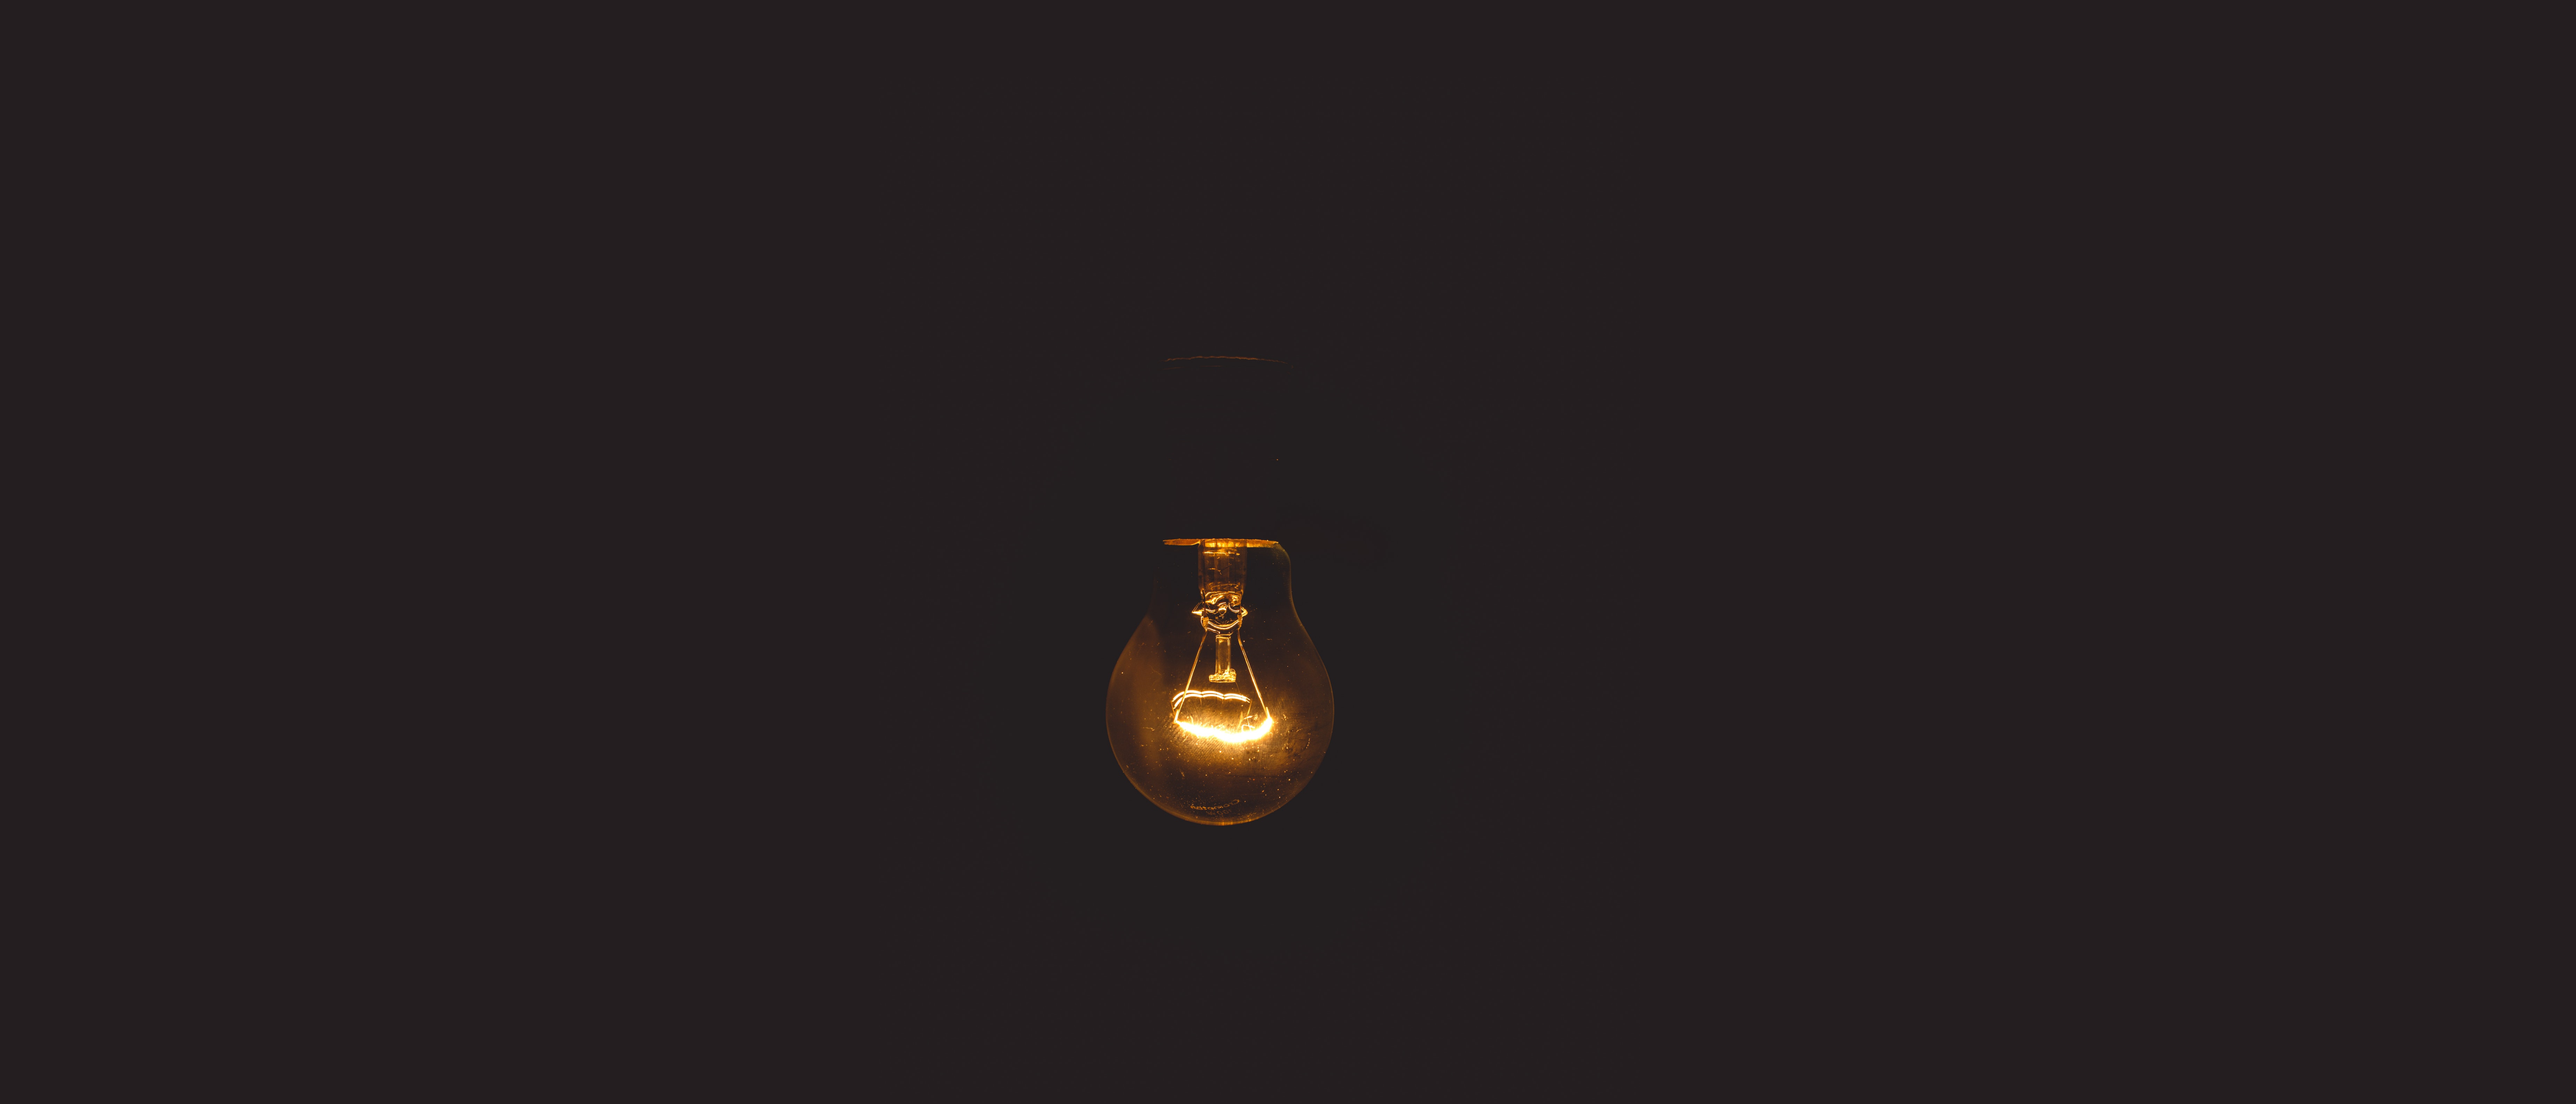
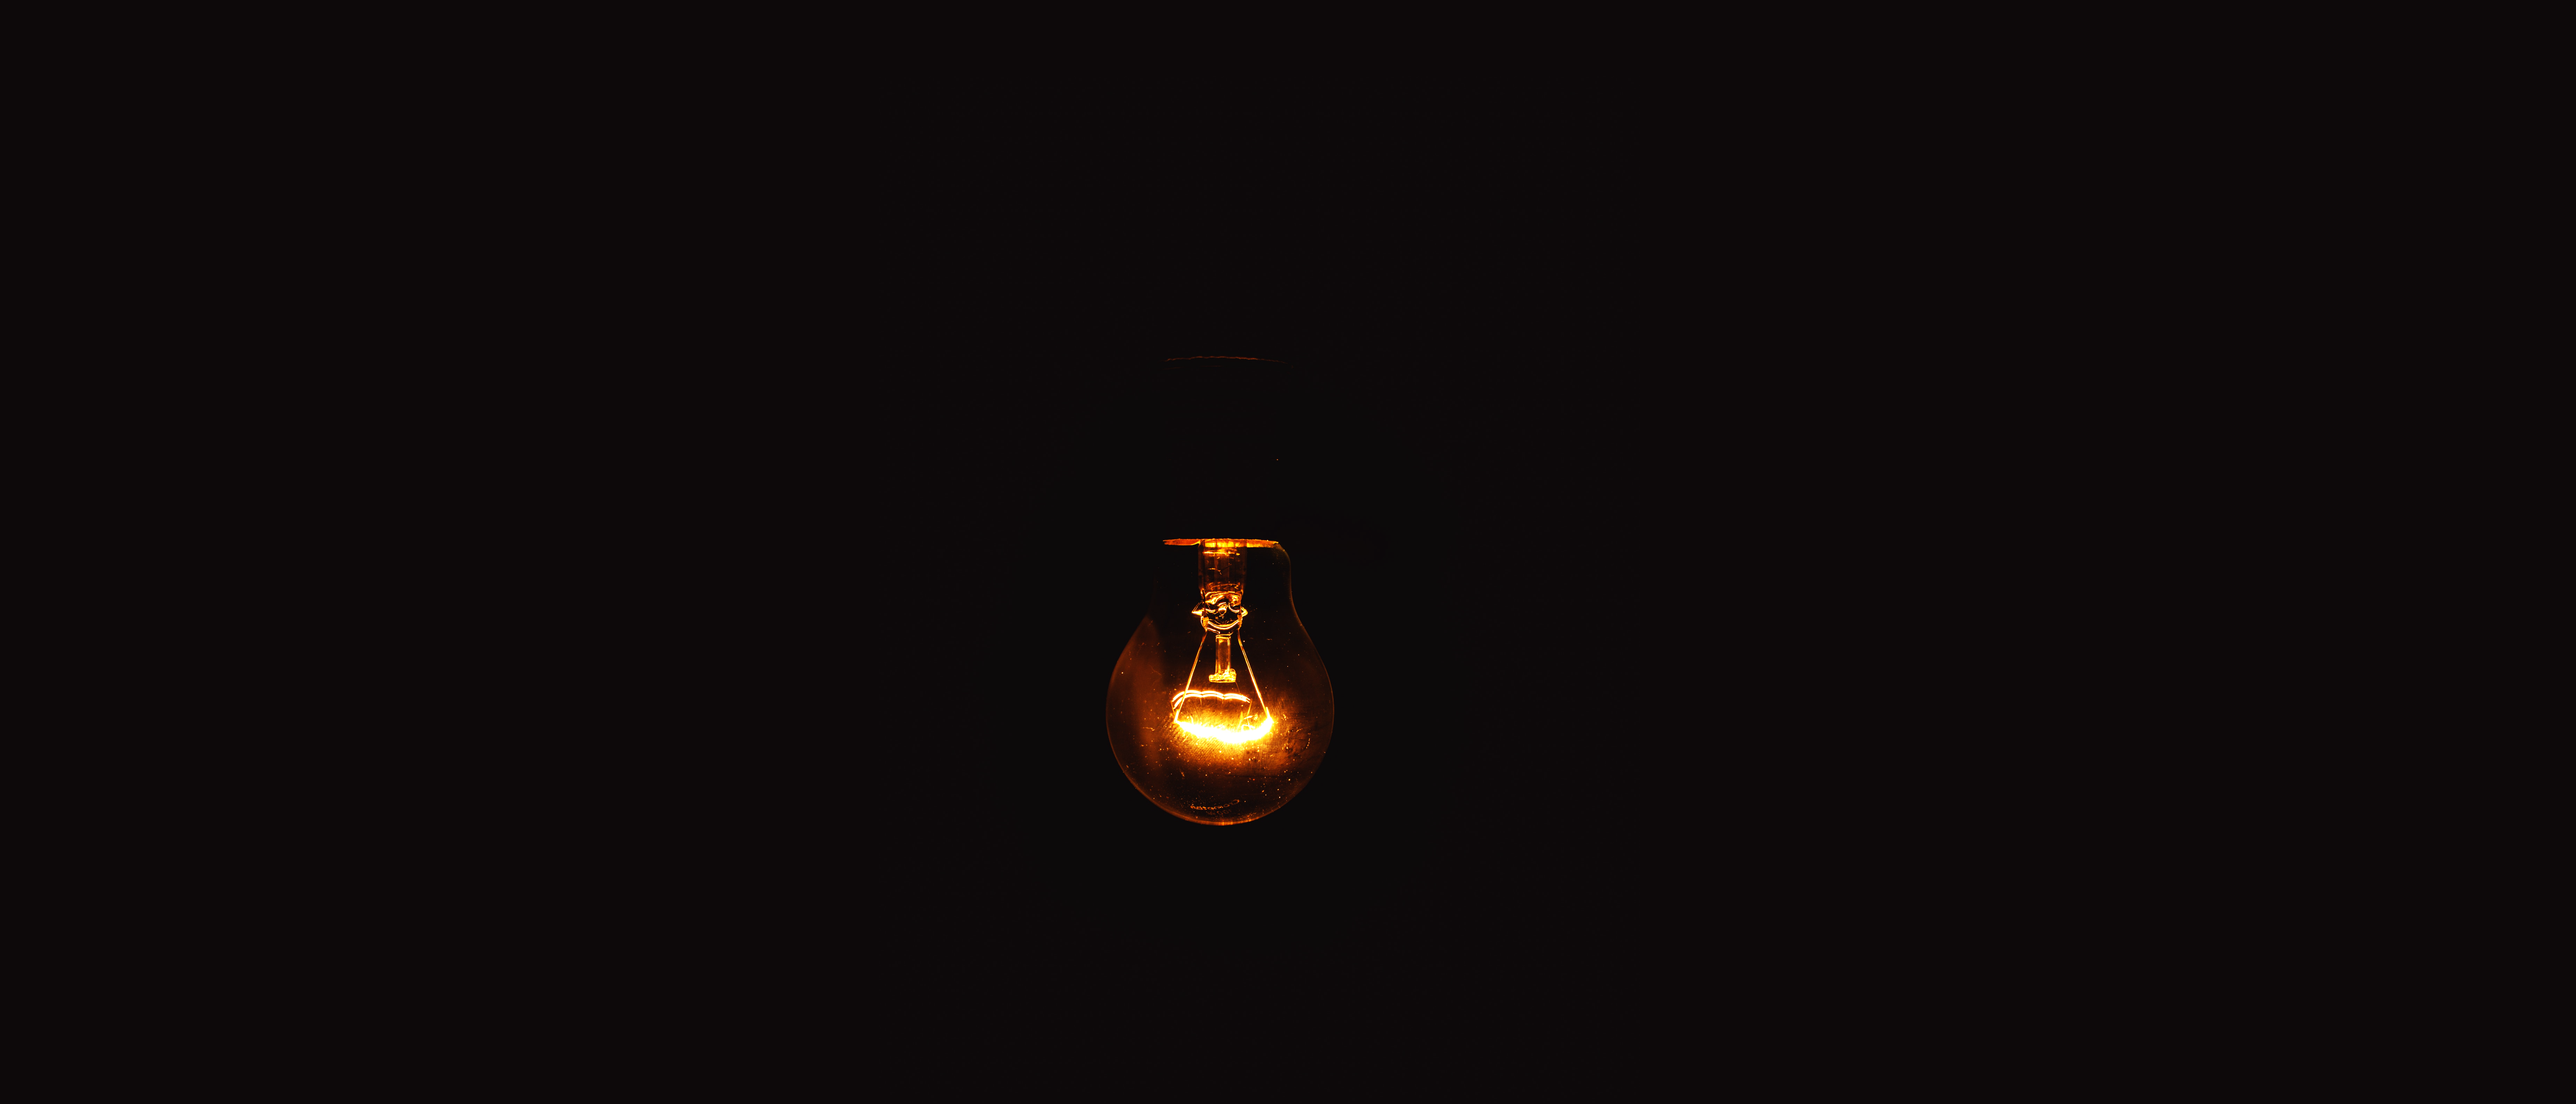
update

Changed region(s): [[0.4049, 0.465, 0.5294, 0.744]]

diff --git a/desktop.css b/desktop.css
@@ -27,6 +27,15 @@ header {
     background-repeat: no-repeat;
 }
 
+#light{
+    background-color: #151213d2;
+    width: 100%;
+    height: 700px;
+}
+
+#light:hover {
+    background-color: transparent;
+}
 
 main {
     background-color: saddlebrown;

diff --git a/mobile.css b/mobile.css
@@ -27,7 +27,7 @@ header {
 #light{
     background-color: #151213d2;
     width: 100%;
-    height: 500px;
+    height: 499px;
 }
 
 #light:hover {
